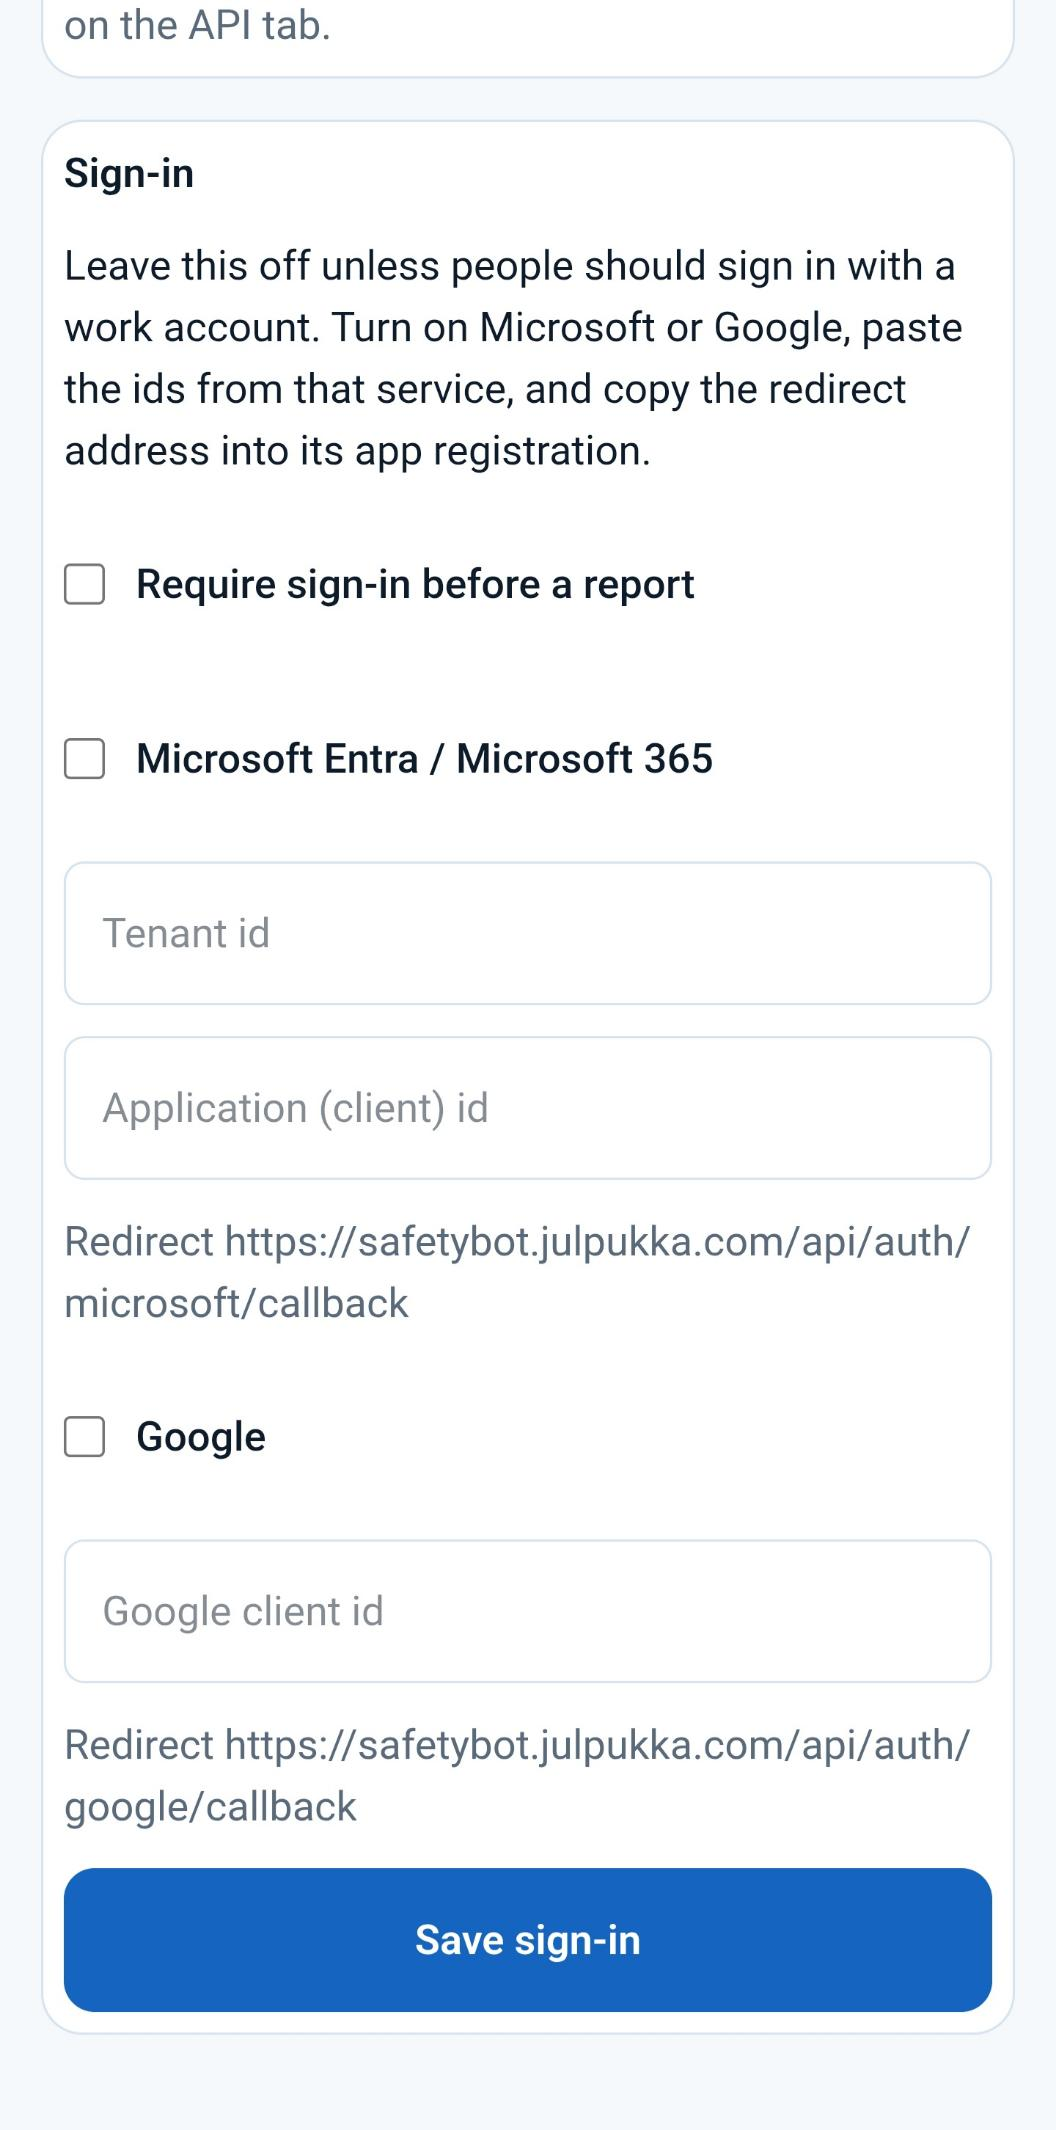
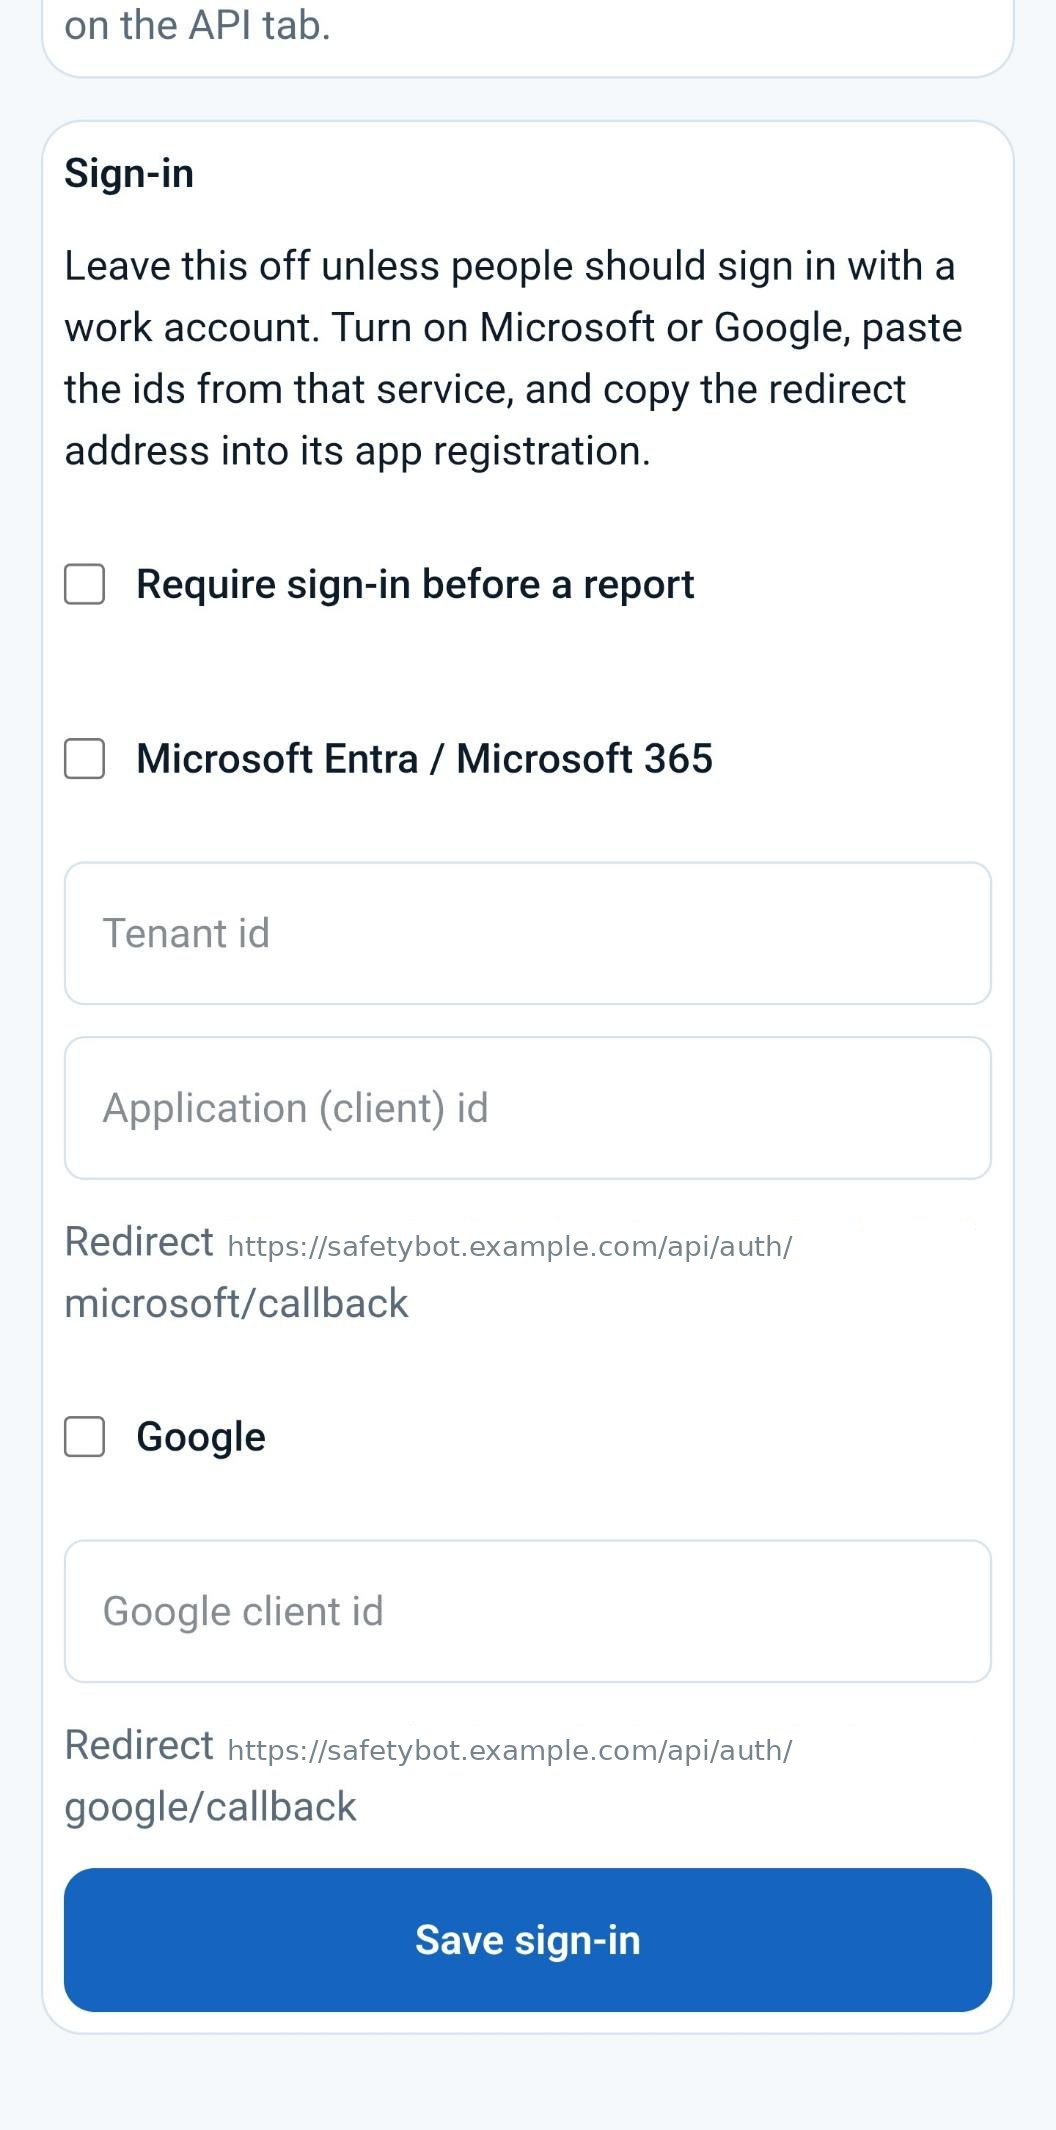
docs: prepare repository for public release

Changed region(s): [[0.2188, 0.8056, 0.9062, 0.8366], [0.2188, 0.5577, 0.9062, 0.5887]]

diff --git a/README.md b/README.md
@@ -1,6 +1,6 @@
 # SafetyBot
 
-**Status:** early preview (v0.1.6). The product is still moving. This repository is private until the owner publishes it.
+**Status:** early preview (v0.1.6). The product is still moving.
 
 SafetyBot is a small web app for field safety reports. A worker holds one button and speaks, adds up to three photos, or types a note. The app classifies the case, writes a short description, and fills only the fields the current schema asks for. An administrator can change those fields — and what the model should take from speech versus a photo — without shipping a new build.
 
@@ -65,7 +65,7 @@ npm run dev
 Open [http://127.0.0.1:8082](http://127.0.0.1:8082).
 
 1. On `/`, type a dummy note such as `Oil on the scaffold. I wiped it.` and send it. You should land on a draft with no model key.
-2. Open `/admin`. The page shows the first-run username and password until you replace them. Sign in, then set a new password of at least 8 characters. The first-run password then stops working in that browser. Change it before anyone else can open `/admin`.
+2. Open `/admin`. The page shows the first-run username and password until you replace them. Sign in, then set a new password of at least 8 characters. The first-run password then stops working in that browser. Change both the admin password and the SafetyBot API key on first boot, before anyone else can open `/admin`.
 3. Admin → API: paste a model key if you want live speech and photo reading. The key stays in this browser unless you also set a server fallback in `.env.local`.
 4. Admin → Logic: press Save. The next worker draft uses that form. Opening the worker page does not put the old fields back.
 
@@ -187,7 +187,7 @@ curl -sS http://127.0.0.1:8082/api/reports \
   -H "Authorization: Bearer $SAFETYBOT_API_KEY"
 ```
 
-Full route list: [docs/api.md](docs/api.md). How the pages call those routes: [docs/architecture.md](docs/architecture.md). Offline queue: [docs/offline.md](docs/offline.md).
+Full route list: [docs/api.md](docs/api.md). How the pages call those routes: [docs/architecture.md](docs/architecture.md). Offline queue: [docs/offline.md](docs/offline.md). Put SafetyBot in another tool: [docs/embed.md](docs/embed.md). Work-account sign-in: [docs/microsoft.md](docs/microsoft.md).
 
 ## Self-host
 

diff --git a/docs/self-host.md b/docs/self-host.md
@@ -1,8 +1,6 @@
 # Self-host SafetyBot
 
-This is the path for someone who cloned the repo and wants their own instance. The live preview at https://safetybot.julpukka.com is the owner's demo, not your data.
-
-The repository is private. You need access to https://github.com/Julpukka-apps/safetybot before `git clone` works.
+This is the path for someone who cloned the repo and wants their own instance. Your data stays on the machine you run.
 
 ## 1. Install
 
@@ -33,9 +31,7 @@ Without a model key you can still type a note and walk the screens. That is demo
 
 Open `/admin`. The page shows the first-run username and password until you change them. Sign in, then set a new password of at least 8 characters. After that the first-run password stops working in that browser.
 
-Do that before anyone else can open `/admin`.
-
-Also open Admin → API and rotate the SafetyBot API key. The shipped demo key is in source and must not stay on a shared host. Do not copy it into a ticket, a chat, or this file.
+Change both the admin password and the SafetyBot API key on first boot, before anyone else can open `/admin`. Rotate the API key on Admin → API. The shipped demo key is in source and must not stay on a shared host. Do not copy it into a ticket, a chat, or this file.
 
 ## 4. Model key (optional)
 
@@ -96,7 +92,7 @@ Optional webhook: set the URL on Admin → API. Each submit POSTs the report row
 
 ## 7. Sign-in (optional)
 
-Admin → Access can require Microsoft Entra or Google before a worker submits. Register these callbacks on that provider:
+Admin → Access can require Microsoft Entra or Google before a worker submits. Details: [microsoft.md](microsoft.md). Register these callbacks on that provider:
 
 - `{origin}/api/auth/microsoft/callback`
 - `{origin}/api/auth/google/callback`

diff --git a/SECURITY.md b/SECURITY.md
@@ -1,17 +1,16 @@
 # Security
 
-This repository is private. The app is an early preview (v0.1.6).
+SafetyBot is an early preview (v0.1.6).
 
 ## Reporting
 
-Tell the owner directly. Do not open a public issue. Do not put API keys, passwords, report text, or photos in a commit, issue, or chat log.
+Open a GitHub issue for a bug that does not involve a secret. Email secrets and passwords to the Julpukka-apps owner. Do not paste API keys, passwords, report text, or photos in an issue, a pull request, a commit, or a chat log.
 
 ## Secrets
 
 - Model keys belong in the browser (Admin → API) or in an uncommitted `.env.local`. The server env names the code reads are `XAI_API_KEY` and `OPENAI_API_KEY`.
-- The SafetyBot API key is the bearer token for reports, schema, organization, and sync. Rotate it on Admin → API before you expose a host.
+- Rotate the admin password and the SafetyBot API key before you expose a host. Change both on first boot. The first-run values stay in `src/schema.ts` so a clone can sign in. Do not print them in docs, issues, or screenshots.
 - `data/safetybot-store.json` and `data/safetybot-reports.jsonl` are local. They are gitignored. Do not add them.
-- The first-run admin password and the demo API key are in `src/schema.ts` so a first run can sign in. Change both in the running app. Do not print them in docs. History was not rewritten.
 
 ## Auth
 

diff --git a/CONTRIBUTING.md b/CONTRIBUTING.md
@@ -1,6 +1,6 @@
 # Contributing
 
-SafetyBot is an early preview (v0.1.6). The repository stays private until the owner publishes it.
+SafetyBot is an early preview (v0.1.6).
 
 ## Run
 
@@ -15,7 +15,7 @@ Dev server: http://127.0.0.1:8082
 
 ## Rules
 
-1. Do not commit `.env`, `.env.local`, `data/`, credentials, real reports, or real photos.
+1. Do not commit `.env`, `.env.local`, `data/`, credentials, real reports, or real photos. Do not put secrets in issues or pull requests.
 2. Screenshots in `docs/screenshots/` use dummy text only. No API keys and no named people.
 3. Prefer Admin → Logic for new fields and case types. Change React only when the schema cannot express it.
 4. Keep worker capture simple: one primary action (hold to talk). Camera is secondary.

diff --git a/docs/admin.md b/docs/admin.md
@@ -1,6 +1,6 @@
 # Admin
 
-URL: `/admin`. Live preview: https://safetybot.julpukka.com/admin
+URL: `/admin`.
 
 The page starts at sign-in. Until the password has been changed, the page shows the first-run username and password. After that sign-in it asks for a new password of at least 8 characters. The first-run password then stops working in that browser. Change it before you expose the host. Do not copy that password into docs, issues, or screenshots.
 

diff --git a/CHANGELOG.md b/CHANGELOG.md
@@ -6,6 +6,7 @@
 - The draft is written only when the app is open and online
 - Submit still happens on the draft screen
 - Phone queue is documented in `docs/offline.md`
+- Docs prepared for public repository
 
 ## 0.1.5
 

diff --git a/docs/screenshots/README.md b/docs/screenshots/README.md
@@ -1,6 +1,6 @@
 # Screenshots
 
-Live UI captures. Dummy hazard copy only. No faces and no API keys.
+UI captures. Dummy hazard copy only. No faces, no API keys, and no live host name.
 
 | File | Screen |
 | --- | --- |
